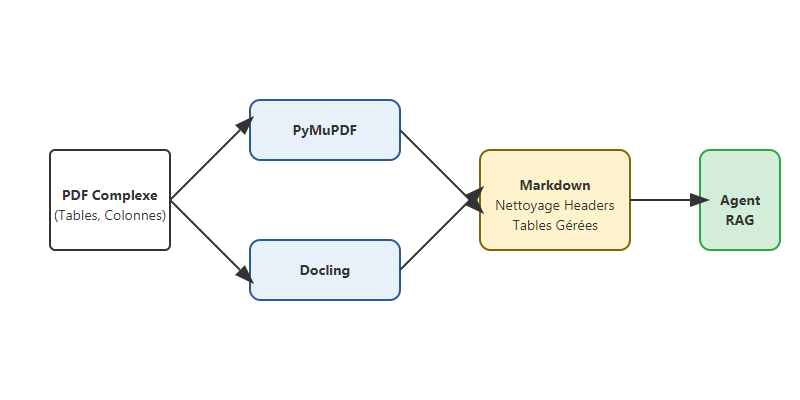
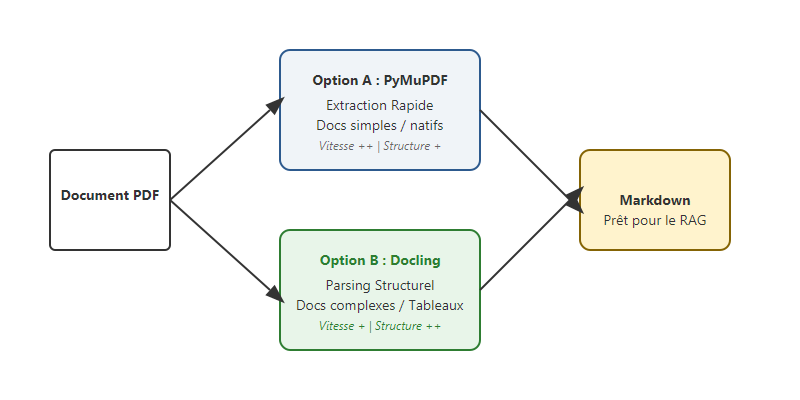
fix: stage missing pngs and markdown updates

diff --git a/docs/posts/pdf_to_markdown.md b/docs/posts/pdf_to_markdown.md
@@ -8,55 +8,41 @@ categories:
     - Python
 ---
 
-# Du PDF au Markdown : mon pipeline pour une ingestion RAG de qualité
+# Du PDF au Markdown : choisir le bon pipeline d'ingestion pour son RAG
 
 On dit souvent que la qualité d'un système RAG dépend de son modèle d'embedding ou de son LLM. Mais mon expérience m'a montré qu'en réalité, la bataille se gagne bien plus tôt : au moment du parsing des documents. Un agent IA ne peut pas naviguer intelligemment dans un document s'il reçoit un bloc de texte brut sans structure.
 
-Aujourd'hui, je partage avec vous mon approche pour transformer des PDF complexes en **Markdown structuré**, le langage universel des LLMs.
+Aujourd'hui, je partage avec vous mon approche pour transformer des PDF complexes en **Markdown structuré**, et surtout comment choisir entre les deux outils phares du moment.
 
 <!-- more -->
 
-## Pourquoi le Markdown est le format roi pour le RAG
+## Le Markdown : le format roi pour le RAG
 
-Le texte brut issu d'un PDF est souvent pollué par des headers, des footers, des numéros de page ou des sauts de ligne intempestifs. En convertissant vers le Markdown, on conserve :
-1. **La Hiérarchie** : Les titres (`#`, `##`, `###`) permettent de segmenter logiquement le document.
-2. **Les Tableaux** : Un tableau Markdown est infiniment plus lisible pour un LLM qu'une suite de mots désordonnés.
-3. **Le Contexte** : En chunkant par header plutôt que par nombre de caractères, on s'assure que chaque morceau de texte garde son unité sémantique.
+Le texte brut issu d'un PDF est souvent pollué. En convertissant vers le Markdown, on conserve la hiérarchie (titres), les tableaux et l'unité sémantique des paragraphes. C'est la base indispensable pour un chunking intelligent par header.
 
-## Mon duo d'outils : PyMuPDF et Docling
+## Deux philosophies : PyMuPDF vs Docling
 
-Pour construire ce pipeline, j'utilise deux bibliothèques complémentaires :
+Il n'y a pas un outil unique pour tous les projets. Le choix dépend de la nature de vos documents et de vos contraintes de performance.
 
-### 1. PyMuPDF (fitz) : La rapidité brute
-J'utilise **PyMuPDF** pour les opérations rapides : extraire le texte par page, identifier les métadonnées de base ou supprimer les zones de "bruit" connues (comme les bas de page répétitifs).
+### Option A : PyMuPDF (fitz) - La rapidité brute
+J'utilise **PyMuPDF** lorsque les documents sont "propres" (PDF natifs, texte simple) et que la vitesse est une priorité absolue. C'est l'outil idéal pour traiter des milliers de pages en quelques secondes tout en gardant un contrôle fin sur les zones de texte à extraire.
 
-### 2. Docling : L'intelligence structurelle
-Pour les documents vraiment complexes (plusieurs colonnes, tableaux imbriqués), j'ai intégré **Docling** (développé par IBM). Sa capacité à comprendre la mise en page et à exporter un Markdown "propre" est impressionnante. Il gère l'OCR si nécessaire et reconstruit les structures de tables avec une grande fidélité.
+### Option B : Docling - L'intelligence structurelle
+Pour les documents complexes (mises en page sur plusieurs colonnes, tableaux imbriqués, documents scannés), je me tourne vers **Docling**. Développé par IBM, cet outil excelle dans la reconstruction de la structure logique. Il traite le document comme un ensemble d'objets (titres, listes, tables) plutôt que comme de simples coordonnées de caractères.
 
-![Pipeline d'Ingestion](pdf_to_markdown/ingestion_pipeline.png)
+![Choix du Pipeline d'Ingestion](pdf_to_markdown/ingestion_pipeline.png)
 
-## Comment je gère les Headers et le Chunking
+## Comment choisir ?
 
-Plutôt que de faire un chunking aveugle (ex: tous les 1000 caractères), mon pipeline suit la structure du Markdown :
-
-```python
-from docling.document_converter import DocumentConverter
-
-def process_pdf_to_md(source):
-    converter = DocumentConverter()
-    result = converter.convert(source)
-    markdown_output = result.document.export_to_markdown()
-    
-    # Stratégie de chunking intelligente :
-    # On découpe le document à chaque changement de titre (Header)
-    chunks = split_by_headers(markdown_output)
-    return chunks
-```
-
-En faisant cela, si un agent cherche des informations sur la "Gestion des Risques", il recevra le bloc de texte complet situé sous ce header, et non un morceau tronqué au milieu d'une phrase.
+| Critère | PyMuPDF | Docling |
+| :--- | :--- | :--- |
+| **Vitesse** | Ultra-rapide | Modérée (besoin de CPU/GPU) |
+| **Précision Tableaux** | Basique | Excellente |
+| **Structure complexe** | Manuelle | Native |
+| **Cas d'usage** | Indexation massive, docs simples | Rapports techniques, fiches métier |
 
 ## Conclusion
 
-L'ingestion n'est pas une simple formalité technique ; c'est la fondation de votre intelligence artificielle. En passant du PDF au Markdown de manière structurée, vous donnez à vos agents une "vision" claire du document.
+L'ingestion n'est pas une simple formalité technique ; c'est un choix d'architecture. Que vous privilégiez la vitesse de PyMuPDF ou la précision structurelle de Docling, l'objectif reste le même : fournir à votre agent une "vision" Markdown claire du document.
 
-C'est mon retour d'expérience sur la partie amont du RAG. Dans le [prochain article](https://sawallesalfo.github.io/blog/2025/12/30/le-rag-ne-se-limite-pas-aux-embeddings--limportance-de-la-recherche-hybride/), nous verrons comment exploiter cette structure pour faire de la recherche hybride performante.
+Dans le [prochain article](https://sawallesalfo.github.io/blog/2025/12/30/le-rag-ne-se-limite-pas-aux-embeddings--limportance-de-la-recherche-hybride/), nous verrons comment exploiter cette structure pour faire de la recherche hybride performante.
